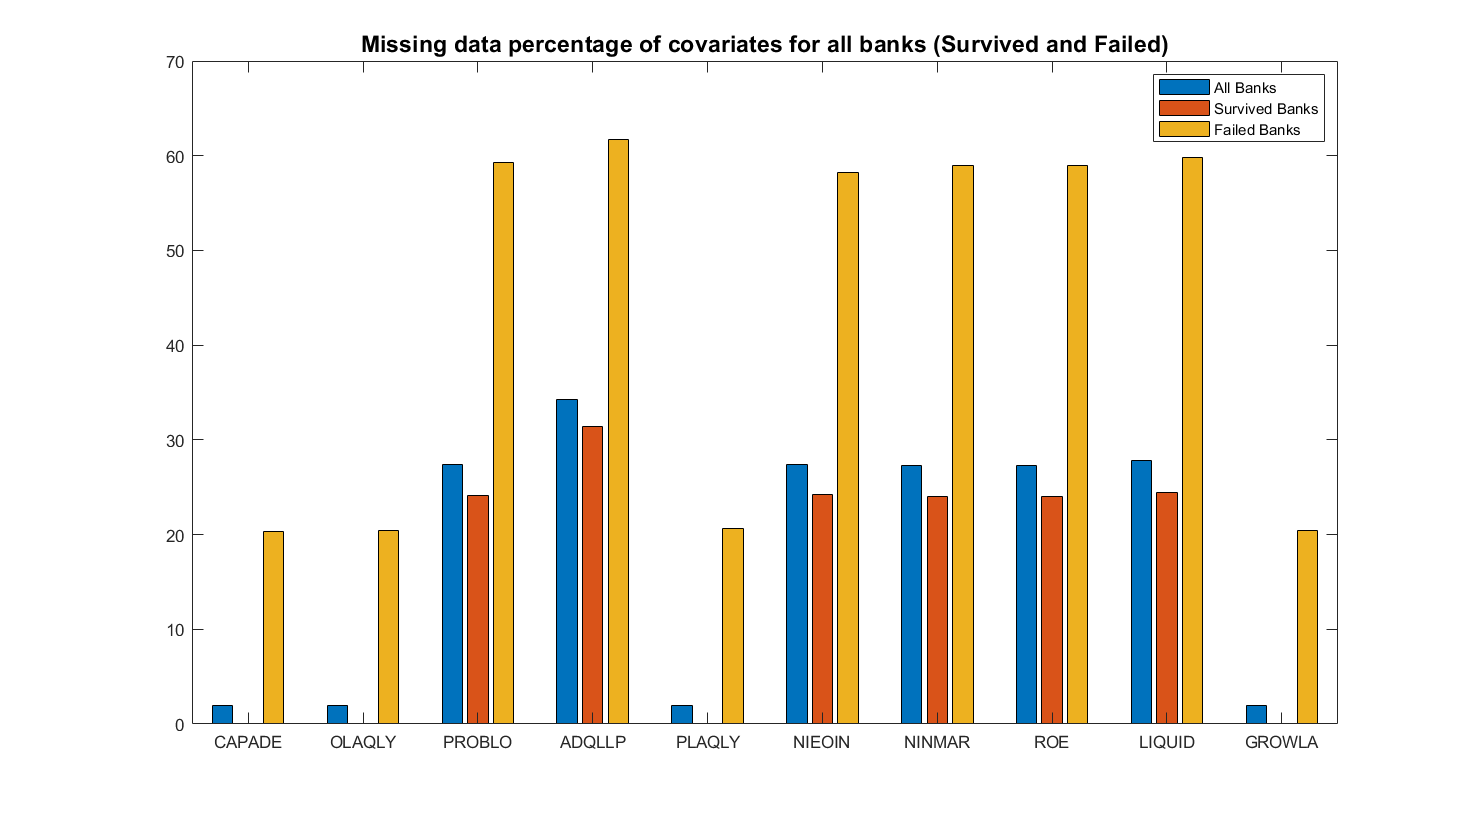
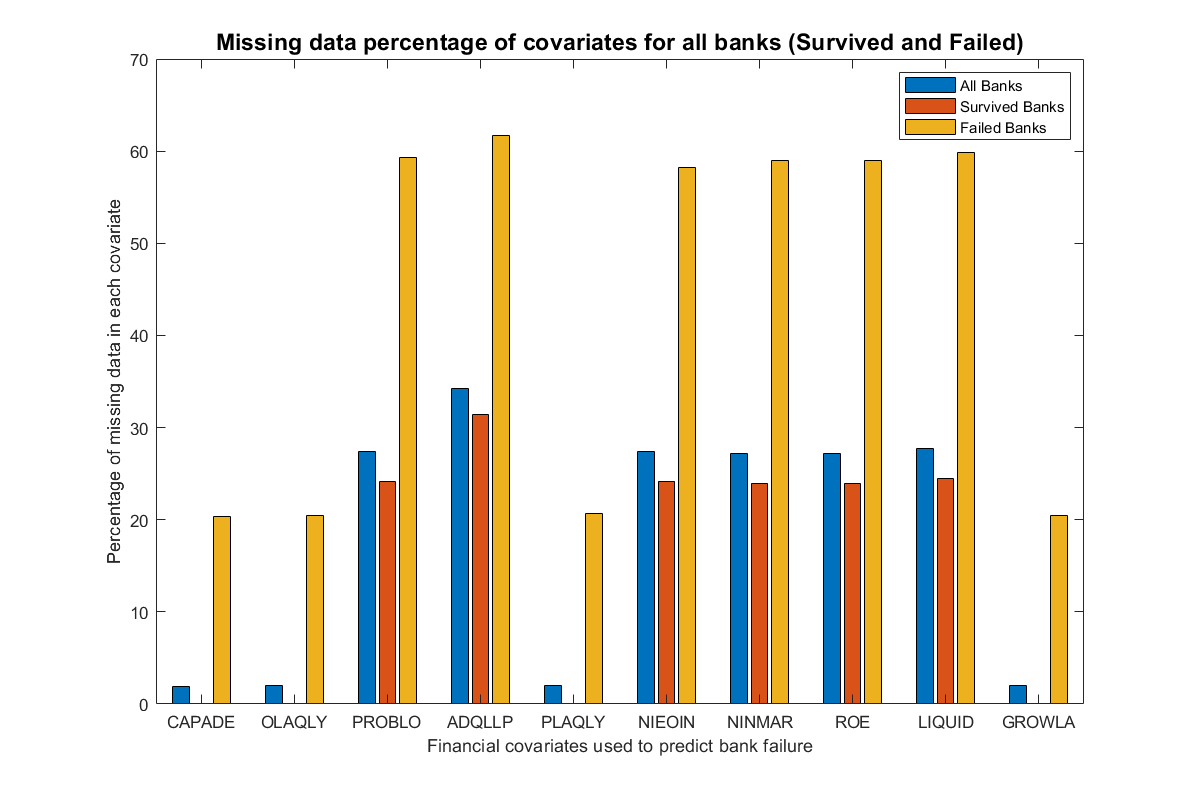
Modify missing data percent graph photo

diff --git a/main/htet_plot_bar_graph_missing_percent.m b/main/htet_plot_bar_graph_missing_percent.m
@@ -1,0 +1,68 @@
+% XXXXXXXXXXXXXXXXXXXXXXXXXXXX htet_playground_test_any_code_snippet XXXXXXXXXXXXXXXXXXXXXXXXXXXXXXXXXXXXXXX
+%
+% Author    :   Htet
+% Date      :   Sep 11, 2019
+% Function  :   dummy file that is used to test any code snippet in matlab
+% XXXXXXXXXXXXXXXXXXXXXXXXXXXXXXXXXXXXXXXXXXXXXXXXXXXXXXXXXXXXXXXXXXXXXXXXXXXXXXXXXXXXXXXXXXXXXXXXXXXXXXXXXX
+
+
+% data pre-processing
+clear;
+clc;
+
+load Correct_All_Banks;
+load Survived_Banks;
+load Failed_Banks;
+
+All = Correct_All_Banks;
+Survived = Survived_Banks;
+Failed = Failed_Banks;
+Labels = ["CAPADE", "OLAQLY", "PROBLO", "ADQLLP", "PLAQLY", "NIEOIN", "NINMAR", "ROE", "LIQUID", "GROWLA"];
+
+
+%calculate mising rows Percent for all banks
+Total_Banks = size(All, 1);
+NaN_Rows = isnan(All);
+NaN_Sum = sum(isnan(All(:,(3:12))));
+Nan_Sum_Percent = htet_cal_nan_percent(NaN_Sum, 10, Total_Banks);
+
+%calculate mising rows for survived banks
+Total_Survived_Banks = size(Survived, 1);
+NaN_Rows_Survived = isnan(Survived);
+NaN_Sum_Survived = sum(isnan(Survived(:,(3:12))));
+Nan_Sum_Percent_Survived = htet_cal_nan_percent(NaN_Sum_Survived, 10, Total_Survived_Banks);
+[M, I] = max(Nan_Sum_Percent_Survived);
+Max_Missing_Cov_All = I;
+
+%calculate mising rows for failed banks
+Total_Failed_Banks = size(Failed, 1);
+NaN_Rows_Failed = isnan(Failed);
+NaN_Sum_Failed = sum(isnan(Failed(:,(3:12))));
+Nan_Sum_Percent_Failed  = htet_cal_nan_percent(NaN_Sum_Failed, 10, Total_Failed_Banks);
+[M1, I1] = max(Nan_Sum_Percent_Survived);
+Max_Missing_Cov_Failed = I1;
+
+
+figure;
+bar([Nan_Sum_Percent; Nan_Sum_Percent_Survived; Nan_Sum_Percent_Failed]');
+xlabel('Financial covariates used to predict bank failure');
+ylabel('Percentage of missing data in each covariate');
+legend('All Banks','Survived Banks', 'Failed Banks');
+set(gca, 'XTick', 1:10); % center x-axis ticks on bins
+set(gca, 'XTickLabel', Labels); % set x-axis labels
+title('Missing data percentage of covariates for all banks (Survived and Failed)', 'FontSize', 14); % set title
+colormap('jet'); % set the colorscheme
+%
+% figure;
+% bar(Nan_Sum_Percent_Survived);
+% set(gca, 'XTick', 1:10); % center x-axis ticks on bins
+% set(gca, 'XTickLabel', Labels); % set x-axis labels
+% title('Missing data percentage of covariates for Survived Banks', 'FontSize', 14); % set title
+% colormap('jet'); % set the colorscheme
+%
+% figure;
+% bar(Nan_Sum_Percent_Failed);
+% set(gca, 'XTick', 1:10); % center x-axis ticks on bins
+% set(gca, 'XTickLabel', Labels); % set x-axis labels
+% title('Missing data percentage of covariates for Failed Banks', 'FontSize', 14); % set title
+% colormap('jet'); % set the colorscheme

diff --git a/main/htet_playground_test_any_code_snippet.m b/main/htet_playground_test_any_code_snippet.m
@@ -14,53 +14,6 @@ load Correct_All_Banks;
 load Survived_Banks;
 load Failed_Banks;
 
-All = Correct_All_Banks;
-Survived = Survived_Banks;
-Failed = Failed_Banks;
-Labels = ["CAPADE", "OLAQLY", "PROBLO", "ADQLLP", "PLAQLY", "NIEOIN", "NINMAR", "ROE", "LIQUID", "GROWLA"];
-
-
-%calculate mising rows Percent for all banks
-Total_Banks = size(All, 1);
-NaN_Rows = isnan(All);
-NaN_Sum = sum(isnan(All(:,(3:12))));
-Nan_Sum_Percent = htet_cal_nan_percent(NaN_Sum, 10, Total_Banks);
-
-%calculate mising rows for survived banks
-Total_Survived_Banks = size(Survived, 1);
-NaN_Rows_Survived = isnan(Survived);
-NaN_Sum_Survived = sum(isnan(Survived(:,(3:12))));
-Nan_Sum_Percent_Survived = htet_cal_nan_percent(NaN_Sum_Survived, 10, Total_Survived_Banks);
-[M, I] = max(Nan_Sum_Percent_Survived);
-Max_Missing_Cov_All = I;
-
-%calculate mising rows for failed banks
-Total_Failed_Banks = size(Failed, 1);
-NaN_Rows_Failed = isnan(Failed);
-NaN_Sum_Failed = sum(isnan(Failed(:,(3:12))));
-Nan_Sum_Percent_Failed  = htet_cal_nan_percent(NaN_Sum_Failed, 10, Total_Failed_Banks);
-[M1, I1] = max(Nan_Sum_Percent_Survived);
-Max_Missing_Cov_Failed = I1;
-
-
-figure;
-bar([Nan_Sum_Percent; Nan_Sum_Percent_Survived; Nan_Sum_Percent_Failed]');
-legend('All Banks','Survived Banks', 'Failed Banks');
-set(gca, 'XTick', 1:10); % center x-axis ticks on bins
-set(gca, 'XTickLabel', Labels); % set x-axis labels
-title('Missing data percentage of covariates for all banks (Survived and Failed)', 'FontSize', 14); % set title
-colormap('jet'); % set the colorscheme
-%
-% figure;
-% bar(Nan_Sum_Percent_Survived);
-% set(gca, 'XTick', 1:10); % center x-axis ticks on bins
-% set(gca, 'XTickLabel', Labels); % set x-axis labels
-% title('Missing data percentage of covariates for Survived Banks', 'FontSize', 14); % set title
-% colormap('jet'); % set the colorscheme
-%
-% figure;
-% bar(Nan_Sum_Percent_Failed);
-% set(gca, 'XTick', 1:10); % center x-axis ticks on bins
-% set(gca, 'XTickLabel', Labels); % set x-axis labels
-% title('Missing data percentage of covariates for Failed Banks', 'FontSize', 14); % set title
-% colormap('jet'); % set the colorscheme
+o1 = htet_filter_bank_data_by_index(Correct_All_Banks, 0,'1T')
+o2 = htet_filter_bank_data_by_index(Survived_Banks, 0,'1T')
+o3 = htet_filter_bank_data_by_index(Failed_Banks, 0,'1T')

diff --git a/main/htet_filter_bank_data_by_index.m b/main/htet_filter_bank_data_by_index.m
@@ -148,13 +148,13 @@ function out = htet_filter_bank_data_by_index(input, offset, type)
       end
 
       % optional
-      % out2 = [out2; {A}]
+      out2 = [out2; {A}]
       % out3 = [out3; A(1,1)]
       % out4 = [out4; [A(1,1), {A}]];
     end
     out.result = out1;
     % optional
-    % out.full_record = out2;
+    out.full_record = out2;
     % out.id = out3;
     % out.id_full_record = out4;
     % out.is_nan_count = is_nan_count;

diff --git a/main/htet_plot_roc_graph.m b/main/htet_plot_roc_graph.m
@@ -2,7 +2,7 @@
 %
 % Author    :   Htet
 % Date      :   Sep 11, 2019
-% Function  :  
+% Function  :
 % XXXXXXXXXXXXXXXXXXXXXXXXXXXXXXXXXXXXXXXXXXXXXXXXXXXXXXXXXXXXXXXXXXXXXXXXXXXXXXXXXXXXXXXXXXXXXXXXXXXXXXXXXX
 clear;
 clc;
